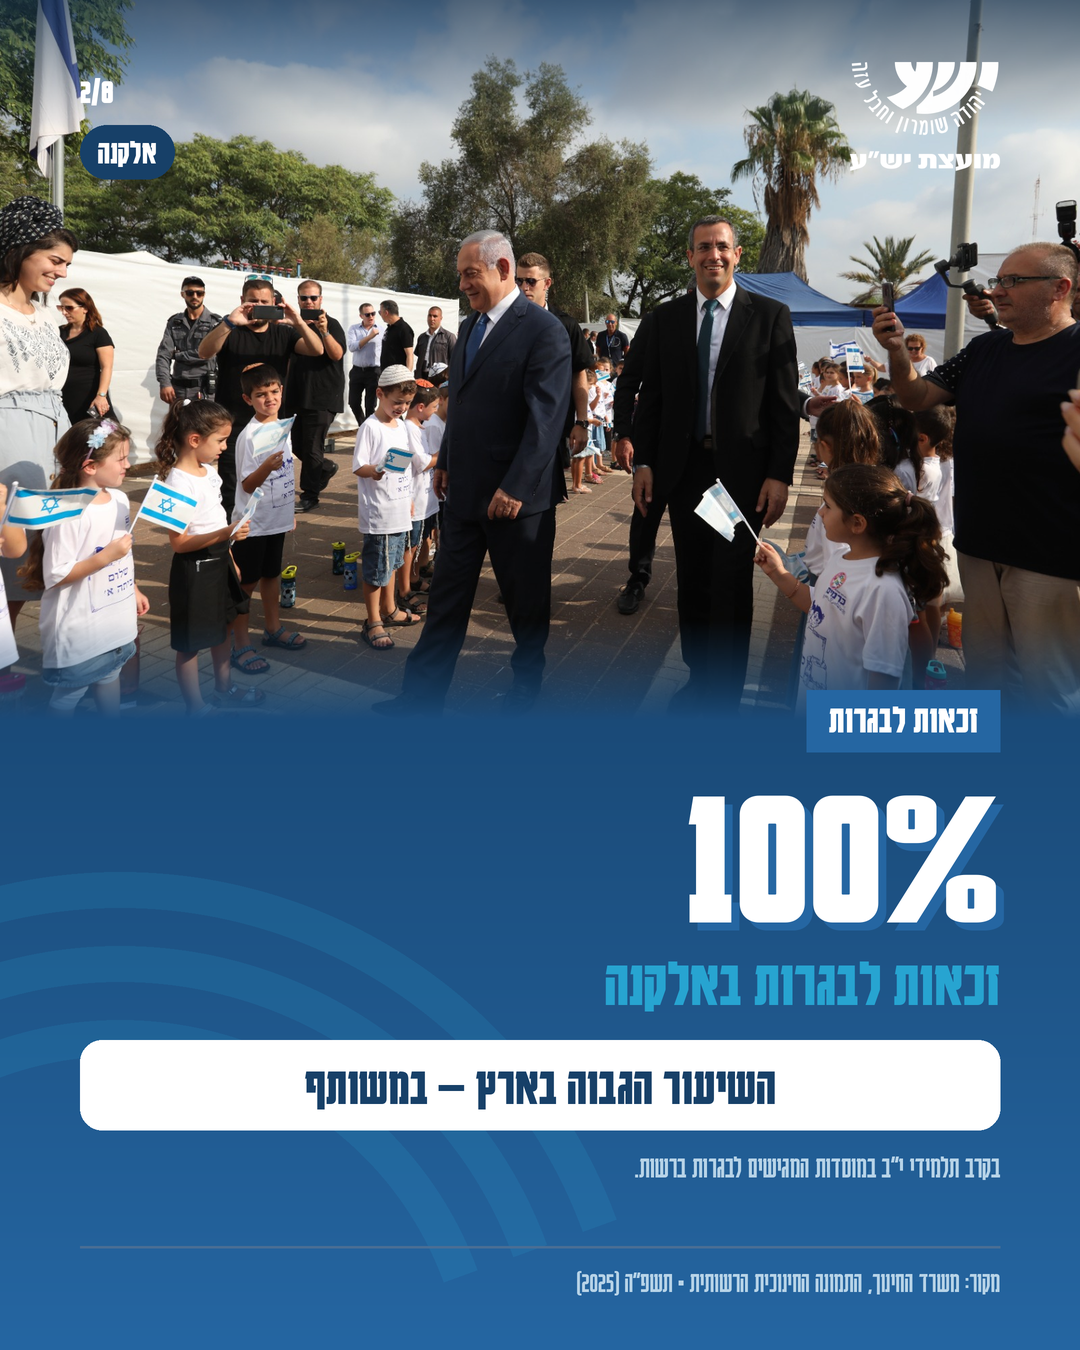
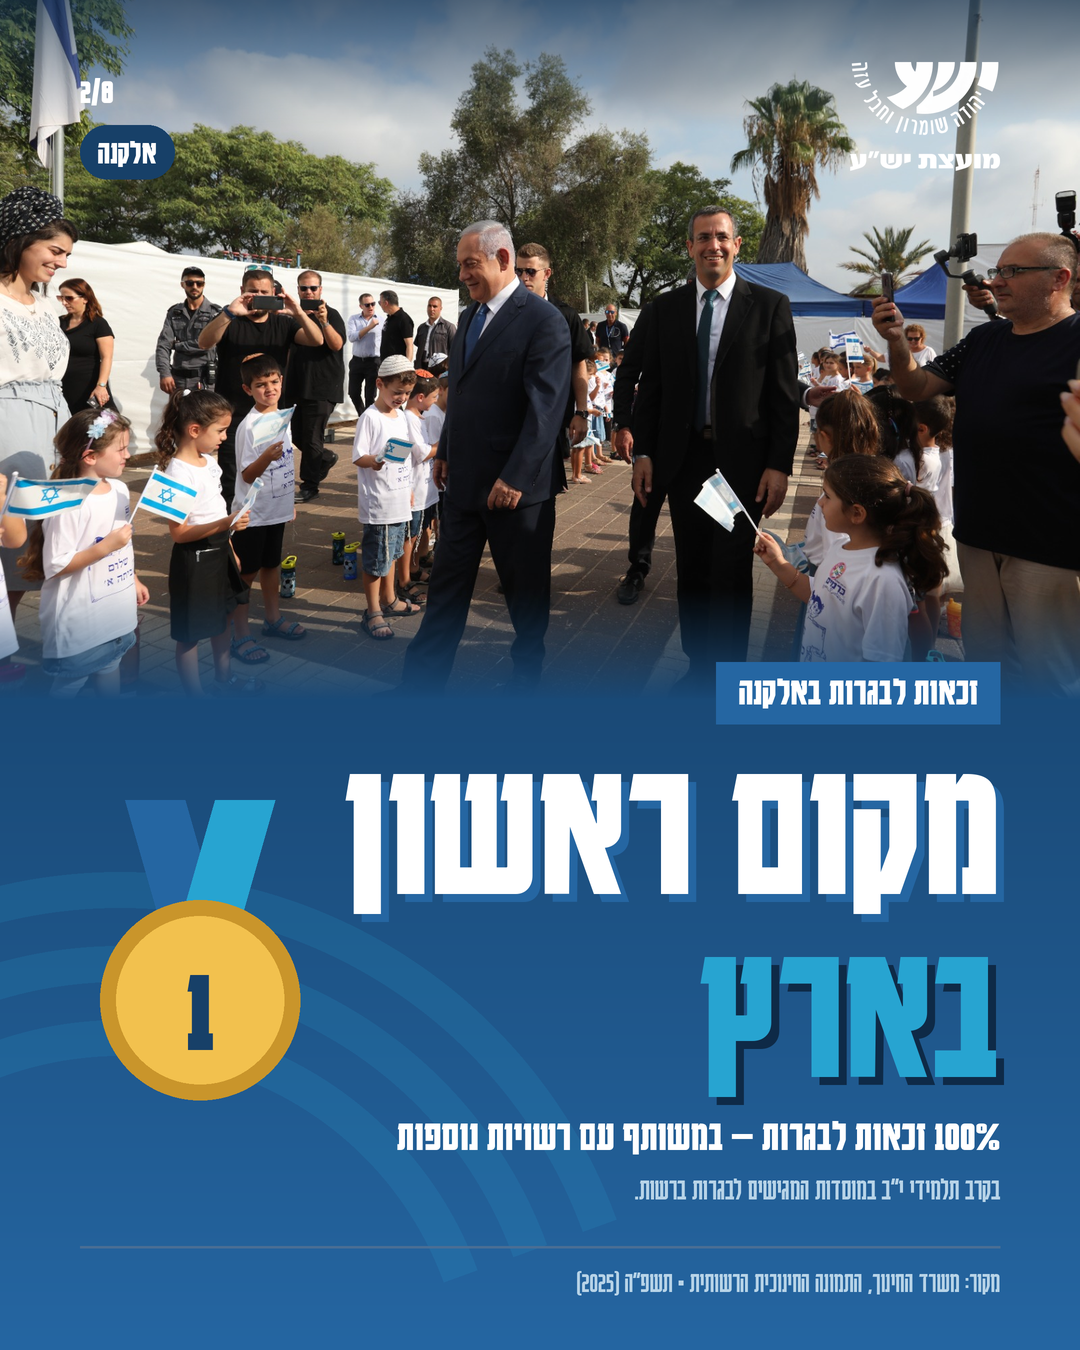
Yesha carousel: first-place headline for Elkana, rename Jordan Valley, trim subtitle
Claude-Session: https://claude.ai/code/session_01RS3QK6pAd3YhyAuXZSJjH1

diff --git a/content-kit/yesha/2026-10-education-carousel-v2/make.py b/content-kit/yesha/2026-10-education-carousel-v2/make.py
@@ -206,17 +206,31 @@ def s1():
 
 
 # 2 — matriculation eligibility
+GOLD = (0xF2, 0xC1, 0x4E); GOLD_D = (0xC9, 0x95, 0x2B)
+
+
+def medal(d, cx, cy, r):
+    """First-place medal: ribbon + gold disc with '1'."""
+    d.polygon(P(cx - r * 0.75, cy - r * 2.0, cx - r * 0.15, cy - r * 2.0, cx + r * 0.25, cy - r * 0.6, cx - r * 0.35, cy - r * 0.6), fill=BLUE)
+    d.polygon(P(cx + r * 0.75, cy - r * 2.0, cx + r * 0.15, cy - r * 2.0, cx - r * 0.25, cy - r * 0.6, cx + r * 0.35, cy - r * 0.6), fill=LB)
+    d.ellipse(P(cx - r, cy - r, cx + r, cy + r), fill=GOLD_D)
+    d.ellipse(P(cx - r * 0.84, cy - r * 0.84, cx + r * 0.84, cy + r * 0.84), fill=GOLD)
+    text(d, (cx, cy + r * 0.06), '1', r * 1.25, NAVY, anchor='mm', rtl=False)
+
+
 def s2():
     img = canvas(True)
-    photo(img, PHOTO_ELKANA, 720, 0.5, None, fade_from=0.86, caption='אלקנה', top_dark=170, caption_top=True)
+    photo(img, PHOTO_ELKANA, 700, 0.5, None, fade_from=0.84, caption='אלקנה', top_dark=170, caption_top=True)
     arcs(img, 120, 1400, n=3, r0=380)
     d = chrome(img, 2, True, SRC_EDU, on_photo=True)
-    tag(d, 690, 'זכאות לבגרות', 40)
-    text(d, (W - M, 742), '100%', 210, WHITE, rtl=False, shadow=(8, 8, BLUE))
-    text(d, (W - M, 948), 'זכאות לבגרות באלקנה', 66, LB)
-    d.rounded_rectangle(P(M, 1040, W - M, 1130), radius=22 * S, fill=WHITE)
-    text(d, (W / 2, 1085), 'השיעור הגבוה בארץ — במשותף', 54, NAVY, anchor='mm')
-    text(d, (W - M, 1150), 'בקרב תלמידי י״ב במוסדות המגישים לבגרות ברשות.', 32, SOFT, bold=False)
+    tag(d, 662, 'זכאות לבגרות באלקנה', 40)
+    # headline: first place in the country (tied), as large as the width allows next to the medal
+    line1, line2 = 'מקום ראשון', 'בארץ'
+    text(d, (W - M, 722), line1, 200, WHITE, shadow=(8, 8, BLUE))
+    text(d, (W - M, 905), line2, 200, LB, shadow=(8, 8, DEEP))
+    medal(d, M + 120, 1000, 100)
+    text(d, (W - M, 1112), '100% זכאות לבגרות — במשותף עם רשויות נוספות', 44, WHITE)
+    text(d, (W - M, 1172), 'בקרב תלמידי י״ב במוסדות המגישים לבגרות ברשות.', 32, SOFT, bold=False)
     save(img, 2)
 
 
@@ -239,7 +253,7 @@ def s4():
     d = chrome(img, 4, False, SRC_EDU, on_photo=True)
     tag(d, 585, '5 יחידות לימוד', 38)
     text(d, (W - M, 642), 'מובילים ב־5 יחידות', 80, NAVY)
-    text(d, (W - M, 732), 'שיעור הזכאות ב־5 יחידות מקרב התלמידים — לא ציון בבחינה', 34, BLUE, bold=False)
+    text(d, (W - M, 732), 'שיעור הזכאות ב־5 יחידות מקרב התלמידים', 34, BLUE, bold=False)
 
     def section(y, title):
         text(d, (W - M, y), title, 46, BLUE)
@@ -322,7 +336,7 @@ def s7():
     y = 1042
     d.rounded_rectangle(P(M, y, W - M, y + 182), radius=22 * S, fill=(0x1E, 0x4A, 0x75))
     text(d, (W - M - 30, y + 14), 'גם בין 20 המובילות:', 38, LB)
-    others = [('ערבות הירדן', 74.5, 6), ('קדומים', 73.3, 7), ('מטה בנימין', 63.8, 15)]
+    others = [('בקעת הירדן', 74.5, 6), ('קדומים', 73.3, 7), ('מטה בנימין', 63.8, 15)]
     colw = (W - 2 * M - 60) / 3
     for i, (nm, pct, rk) in enumerate(others):
         xr = W - M - 30 - i * colw
